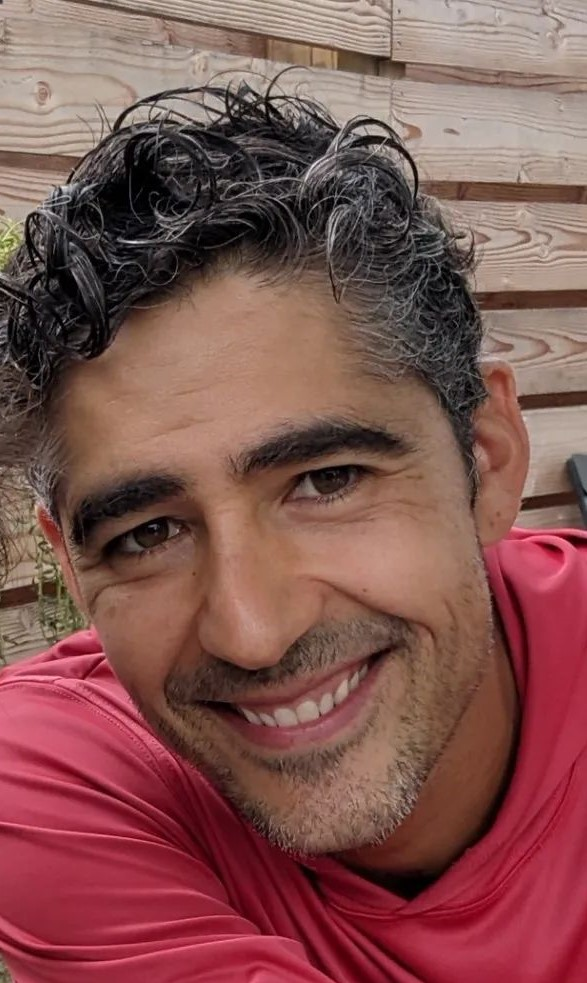
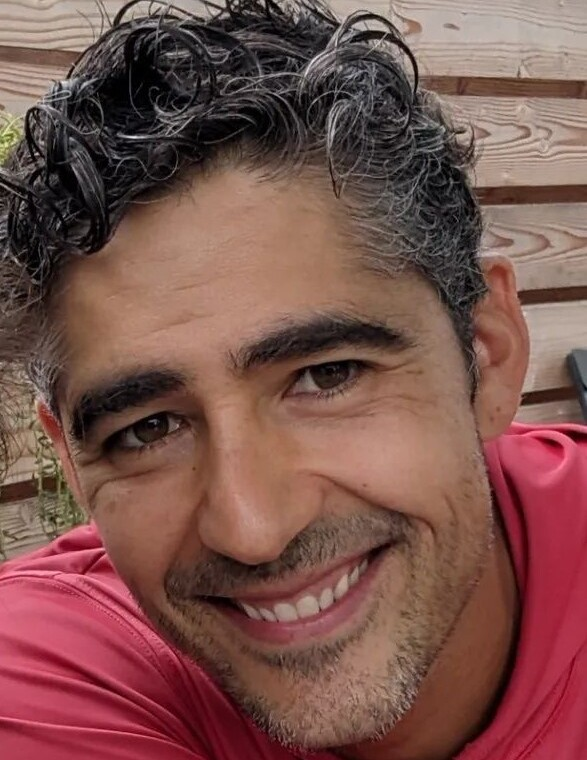
Updated dimensions of advisor Images to props

diff --git a/app/_components/alumniSwiper/index.tsx b/app/_components/alumniSwiper/index.tsx
@@ -7,7 +7,12 @@ import 'swiper/css';
 import 'swiper/css/navigation';
 import alumni from '@/app/(routes)/alumni/alumni.json';
 
-const AlumniSwiper = () => {
+interface AlumniSwiperProps {
+  width: number;
+  height: number;
+}
+
+const AlumniSwiper = ({ width, height }: AlumniSwiperProps) => {
   return (
     <div>
       <Swiper
@@ -23,8 +28,8 @@ const AlumniSwiper = () => {
                   <Image
                     src={`/alumni/advisorImages/${advisor.image}`}
                     alt="alumni advisor headshot"
-                    layout="fill"
-                    objectFit="cover"
+                    width={width}
+                    height={height}
                   />
                 </div>
                 <div className={styles.advisorInfoContainer}>

diff --git a/app/(routes)/alumni/page.tsx b/app/(routes)/alumni/page.tsx
@@ -94,7 +94,7 @@ const Alumni = () => {
           </p>
         </div>
         <div className={styles.alumniCarousel}>
-          <AlumniSwiper />
+          <AlumniSwiper width={250} height={250} />
         </div>
       </div>
       <div className={styles.mentorsContainer}>

diff --git a/app/page.tsx b/app/page.tsx
@@ -188,7 +188,7 @@ export default function Home() {
             </Link>
           </div>
           <div className={styles.alumniCarousel}>
-            <AlumniSwiper />
+            <AlumniSwiper width={300} height={300} />
           </div>
         </div>
       </section>

diff --git a/app/_components/alumniSwiper/alumniSwiper.module.scss b/app/_components/alumniSwiper/alumniSwiper.module.scss
@@ -22,9 +22,7 @@
 }
 
 .advisorImageContainer {
-  position: relative;
-  width: 300px;
-  height: 300px;
+  object-fit: cover;
 }
 
 .advisorInfoContainer {
